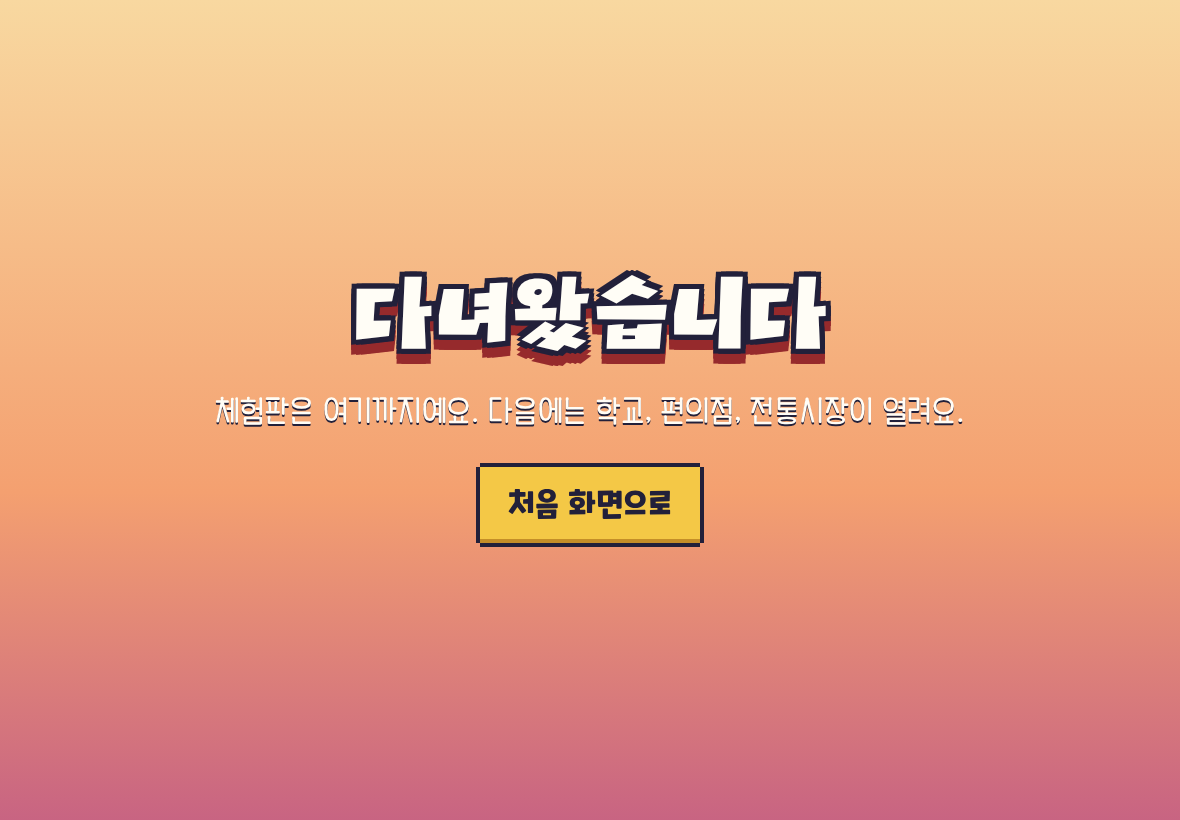
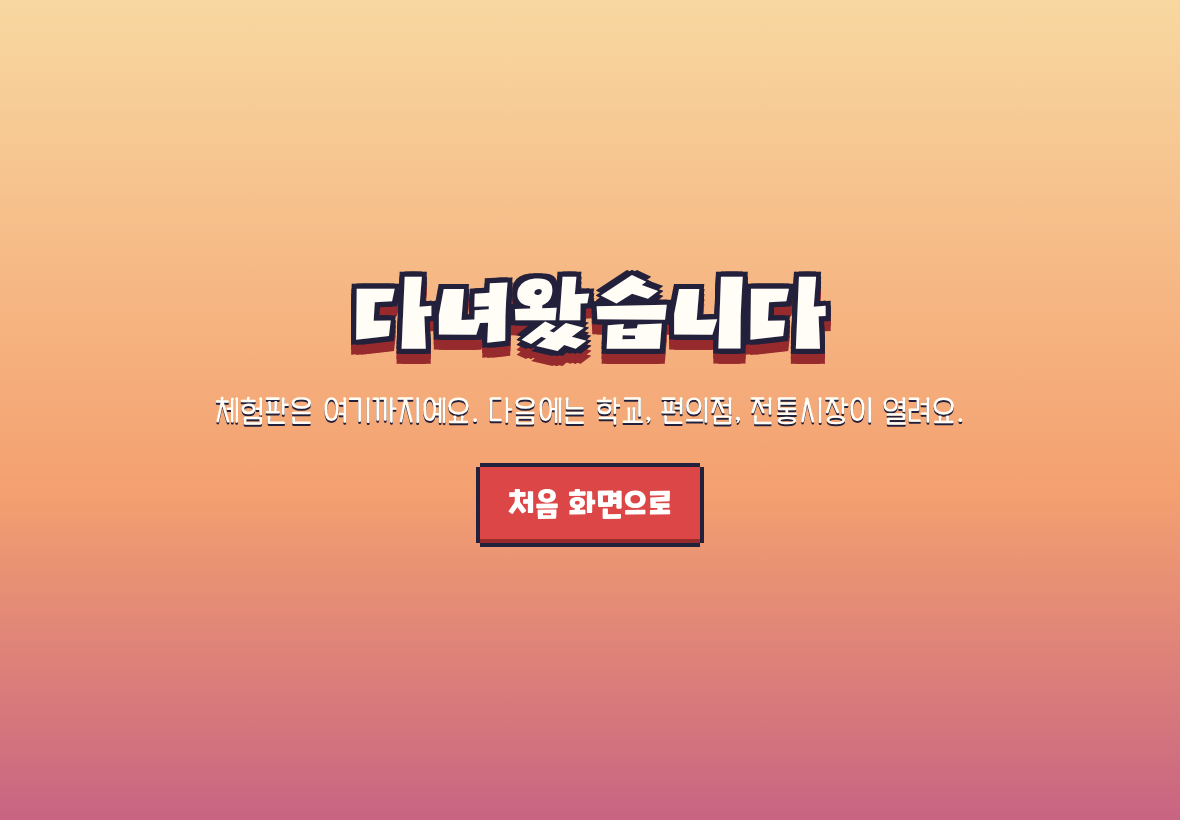
시작 화면을 포스터 스타일로: 도트 무늬, 흐르는 띠, 품목 스티커, 걷는 주인공
Claude-Session: https://claude.ai/code/session_01R4Xdu1f7A5z8qN4VrJ6res

Changed region(s): [[0.3966, 0.5488, 0.6102, 0.6707]]

diff --git a/js/game.js b/js/game.js
@@ -5,7 +5,7 @@ import { World, townMap, homeMap, shopMap, bankMap } from './engine.js';
 import { renderHud, talk, choose, warn, notify, setGoal, el, line, setLines, highlightHud, highlightStamina, panel, closePanel, fade, flashHud } from './ui.js';
 import { pay, deposit, moneyIntro, tryCard, idCheck, review, itemImg, numberChoices, shuffle } from './pay.js';
 import { newState, load, save, wipe, today, breakDown, addPieces, cashTotal, DEFAULT_STUDENT } from './state.js';
-import { iconCanvas, toImg, cardCanvas, PEOPLE } from './sprites.js';
+import { iconCanvas, toImg, cardCanvas, PEOPLE, itemCanvas, moneyCanvas } from './sprites.js';
 
 const $ = s => document.querySelector(s);
 let D, S, world;
@@ -28,22 +28,71 @@ function hud(place) { renderHud(S, D.config, place ?? run.place); }
 function L() { return D.config.levels[S.level]; }
 
 // ---------- 타이틀 ----------
+// ---------- 시작 화면 배경 (포스터) ----------
+let walkTimer = null;
+function poster(sc) {
+  clearInterval(walkTimer);
+  document.body.dataset.map = 'poster';
+  const bg = el('div', 'poster');
+  bg.setAttribute('aria-hidden', 'true');
+  const band = (cls, words) => {
+    const b = el('div', 'band ' + cls);
+    const track = el('div', 'track');
+    const text = words.join('  ✦  ') + '  ✦  ';
+    track.append(el('span', null, text), el('span', null, text));
+    b.append(track);
+    return b;
+  };
+  bg.append(
+    band('band-a', ['우리 집', '교실', '체육관', '운동장', '분식점', '편의점', '전통시장', '미용실', '대형마트', '교육지원청', '교육부']),
+    band('band-b', ['낯선 길', '낯선 사람', '낯선 계산대', '그래도 한 걸음']),
+  );
+  const stickers = [
+    ['kimbap', 6, 14, -12, 6], ['tteokbokki', 82, 10, 9, 6], ['onigiri', 90, 46, -8, 5], ['eggs', 4, 62, 8, 5],
+    ['greenonion', 14, 84, -16, 6], ['coolpis', 74, 80, 12, 6], ['eomuk', 30, 8, 18, 5], ['shampoo', 62, 6, -10, 5],
+    ['badge', 92, 78, -6, 5],
+  ];
+  for (const [id, x, y, r, sc2] of stickers) {
+    const st = el('div', 'sticker');
+    st.style.left = x + '%'; st.style.top = y + '%';
+    st.style.setProperty('--r', r + 'deg');
+    st.style.animationDelay = (-(x + y) / 30).toFixed(2) + 's';
+    st.append(toImg(itemCanvas(id), sc2, ''));
+    bg.append(st);
+  }
+  for (const [v, x, y, r] of [[1000, 20, 30, -14], [500, 82, 30, 20], [100, 24, 72, 10], [5000, 80, 62, -8]]) {
+    const st = el('div', 'sticker money');
+    st.style.left = x + '%'; st.style.top = y + '%';
+    st.style.setProperty('--r', r + 'deg');
+    st.append(toImg(moneyCanvas(v), 4, ''));
+    bg.append(st);
+  }
+  const hero = el('div', 'hero');
+  const frames = PEOPLE.player().map(c => c.toDataURL());
+  const img = toImg(PEOPLE.player()[0], 10, '');
+  hero.append(img, el('div', 'hero-shadow'));
+  let f = 0;
+  walkTimer = setInterval(() => { f ^= 1; img.src = frames[f]; }, 260);
+  bg.append(hero);
+  sc.append(bg);
+}
+
 function titleScreen() {
   world.frozen = true;
   $('#hud').hidden = true; setGoal('');
   const sc = $('#screen'); sc.hidden = false; sc.innerHTML = '';
+  poster(sc);
   const t = el('div', 'title-screen');
   const logo = el('div', 'logo-wrap');
   logo.append(el('h1', 'logo', '다녀오겠습니다'));
   const trial = el('span', 'trial', '체험판');
-  trial.setAttribute('aria-label', '체험판');
   logo.append(trial);
   t.append(logo, el('p', 'tagline', line('title.copy')));
   const row = el('div', 'row');
   const saved = load();
   if (saved) {
     const c = el('button', 'btn primary big', '이어서 하기');
-    c.onclick = () => { S = saved; sc.hidden = true; resume(); };
+    c.onclick = () => { clearInterval(walkTimer); S = saved; sc.hidden = true; resume(); };
     row.append(c);
   }
   const n = el('button', 'btn big' + (saved ? '' : ' primary'), saved ? '처음부터' : '시작하기');
@@ -58,6 +107,7 @@ function titleScreen() {
 
 function setupScreen() {
   const sc = $('#screen'); sc.innerHTML = '';
+  poster(sc);
   const sh = el('div', 'screen-sheet');
   sh.append(el('h2', null, '누가 다녀올까요?'), el('p', 'lead', '난이도와 꿈이든 카드에 적을 이름, 주소를 정해요. 선생님이 함께 정해 주세요.'));
   const lv = el('div', 'levels');
@@ -86,6 +136,7 @@ function setupScreen() {
   go.onclick = () => {
     S = newState(D.config, pick, { name: i1.value.trim() || DEFAULT_STUDENT.name, address: i2.value.trim() || DEFAULT_STUDENT.address });
     persist();
+    clearInterval(walkTimer);
     $('#screen').hidden = true;
     startTutorial();
   };
@@ -96,6 +147,7 @@ function setupScreen() {
 
 function settingsScreen() {
   const sc = $('#screen'); sc.innerHTML = ''; sc.hidden = false;
+  poster(sc);
   const cur = load();
   const sh = el('div', 'screen-sheet');
   sh.append(el('h2', null, '선생님 설정'), el('p', 'lead', '이 기기에만 적용돼요.'));

diff --git a/css/style.css b/css/style.css
@@ -46,6 +46,7 @@
 html, body { margin: 0; height: 100%; }
 body {
   font-synthesis: none;
+  word-break: keep-all;
   background: var(--grass);
   transition: background-color 300ms var(--ease-out);
   color: var(--ink);
@@ -292,8 +293,44 @@ body[data-map="indoor"] { background: var(--ink); }
 
 /* 화면 (타이틀·설정·완료·엔딩) */
 #screen { position: fixed; inset: 0; z-index: 30; overflow: auto; }
-.title-screen { min-height: 100%; display: grid; place-content: center; justify-items: center; text-align: center; padding: 32px 20px;
-  background: linear-gradient(180deg, rgba(251,245,230,0) 0%, rgba(251,245,230,0.0) 30%, rgba(34,32,58,0.35) 100%); }
+.title-screen { position: relative; z-index: 2; min-height: 100%; display: grid; place-content: center; justify-items: center; text-align: center; padding: 32px 20px; }
+body[data-map="poster"] { background: var(--sun); }
+body[data-map="poster"] #world { visibility: hidden; }
+.screen-sheet { position: relative; z-index: 2; }
+
+/* 시작 화면 포스터 */
+.poster { position: fixed; inset: 0; overflow: hidden; z-index: 0;
+  background-color: var(--sun);
+  background-image: radial-gradient(var(--sun-deep) 2px, transparent 2.5px);
+  background-size: 24px 24px; }
+.poster::before { content: ''; position: absolute; inset: 0; z-index: 0; background: radial-gradient(ellipse at 50% 46%, rgba(244, 200, 70, 0.96) 0 26%, rgba(244, 200, 70, 0) 62%); }
+.band { position: absolute; left: -10%; width: 120%; overflow: hidden; white-space: nowrap; padding: 14px 0 16px; z-index: 1; box-shadow: 0 10px 0 rgba(34, 32, 58, 0.12); }
+.band .track { display: inline-flex; animation: marquee 38s linear infinite; }
+.band span { font-family: var(--font-world); font-size: clamp(22px, 2.8vw, 36px); padding-right: 0; letter-spacing: 0.02em; }
+.band-a { top: 17%; background: var(--ink); color: var(--paper); transform: rotate(-5deg); }
+.band-b { bottom: 19%; background: var(--tomato); color: #fff; transform: rotate(4deg); }
+.band-b .track { animation-direction: reverse; animation-duration: 30s; }
+.band-b span { font-size: clamp(26px, 3.4vw, 44px); }
+@keyframes marquee { from { transform: translateX(0); } to { transform: translateX(-50%); } }
+.sticker { position: absolute; z-index: 2; translate: -50% -50%; rotate: var(--r, 0deg);
+  filter: drop-shadow(4px 0 0 #fff) drop-shadow(-4px 0 0 #fff) drop-shadow(0 4px 0 #fff) drop-shadow(0 -4px 0 #fff) drop-shadow(0 8px 10px rgba(34, 32, 58, 0.28));
+  animation: bob 5s ease-in-out infinite; }
+@keyframes bob { 0%, 100% { transform: translateY(0); } 50% { transform: translateY(-8px); } }
+.hero { position: absolute; left: 50%; bottom: 2%; translate: -50% 0; z-index: 2; display: grid; justify-items: center; }
+.hero img { display: block; }
+.hero-shadow { width: 120px; height: 14px; background: rgba(34, 32, 58, 0.22); margin-top: -8px; }
+body[data-map="poster"] .btn.primary { background: var(--tomato); color: #fff; box-shadow:
+    inset 0 calc(var(--px) * -1) 0 var(--tomato-deep),
+    0 calc(var(--px) * -1) 0 var(--line), 0 var(--px) 0 var(--line),
+    calc(var(--px) * -1) 0 0 var(--line), var(--px) 0 0 var(--line); }
+body[data-map="poster"] .btn.primary:hover { background: #e85a5a; }
+@media (max-height: 760px) { .hero { display: none; } }
+@media (max-width: 720px) {
+  .sticker { scale: 0.6; }
+  .hero { display: none; }
+  .band-a { top: 8%; } .band-b { bottom: 8%; }
+}
+
 .logo { font-family: var(--font-title); font-weight: normal; font-synthesis: none; font-size: var(--step-3); line-height: 1; margin: 0; color: var(--card); letter-spacing: -0.01em;
   filter: drop-shadow(5px 0 0 var(--ink)) drop-shadow(-5px 0 0 var(--ink)) drop-shadow(0 5px 0 var(--ink)) drop-shadow(0 -5px 0 var(--ink))
     drop-shadow(0 10px 0 var(--tomato-deep));
@@ -304,7 +341,7 @@ body[data-map="indoor"] { background: var(--ink); }
   box-shadow: -14px 6px 0 -4px #ffffff, 14px 6px 0 -4px #ffffff, 0 10px 18px rgba(34, 32, 58, 0.18);
   animation: cloud 3.2s ease-in-out infinite, fadeUp 700ms 500ms var(--ease-out) both; }
 @keyframes cloud { 0%, 100% { translate: 0 0; } 50% { translate: 0 -10px; } }
-.tagline { margin: 34px 0 40px; font-size: var(--step-1); color: var(--card); background: var(--ink); padding: 8px 20px 10px; text-wrap: balance;
+.tagline { position: relative; z-index: 1; margin: 30px 0 34px; font-size: var(--step-1); color: var(--card); background: var(--ink); padding: 8px 20px 10px; text-wrap: balance;
   animation: fadeUp 700ms 350ms var(--ease-out) both; }
 .title-screen .row { animation: fadeUp 700ms 550ms var(--ease-out) both; }
 @keyframes logoIn { from { opacity: 0; transform: translateY(24px) scale(0.96); } to { opacity: 1; transform: none; } }
